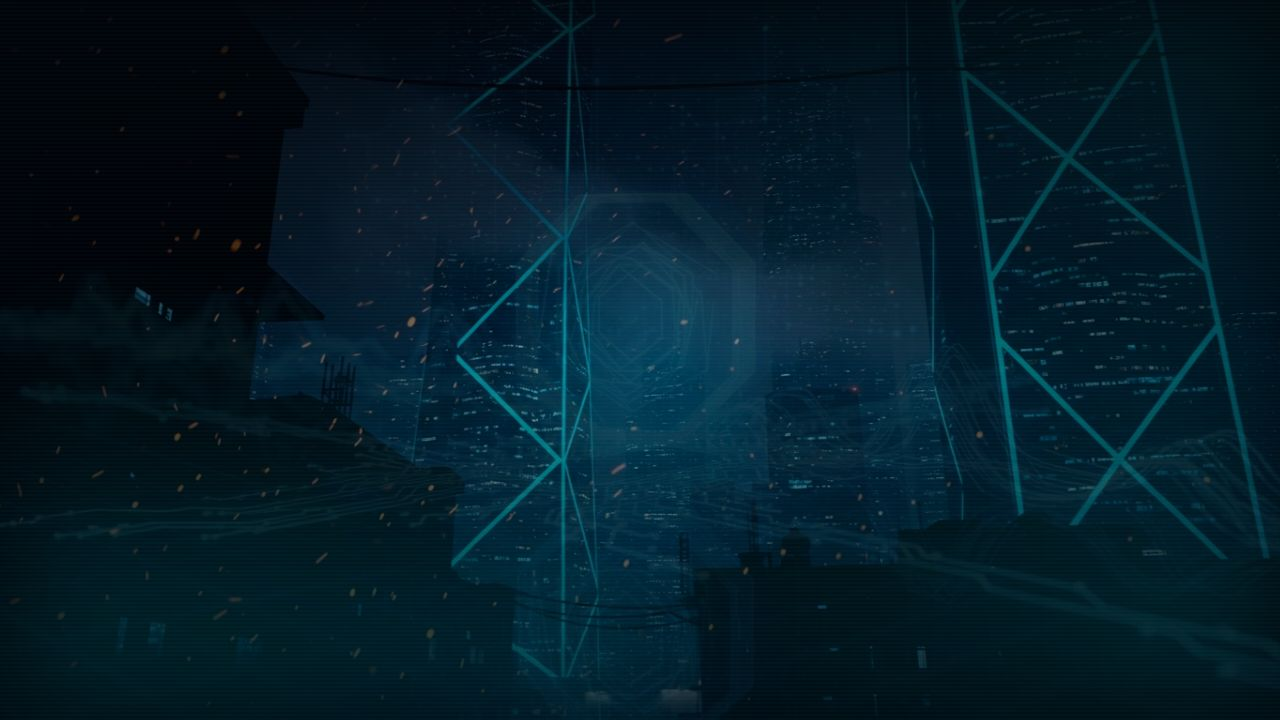
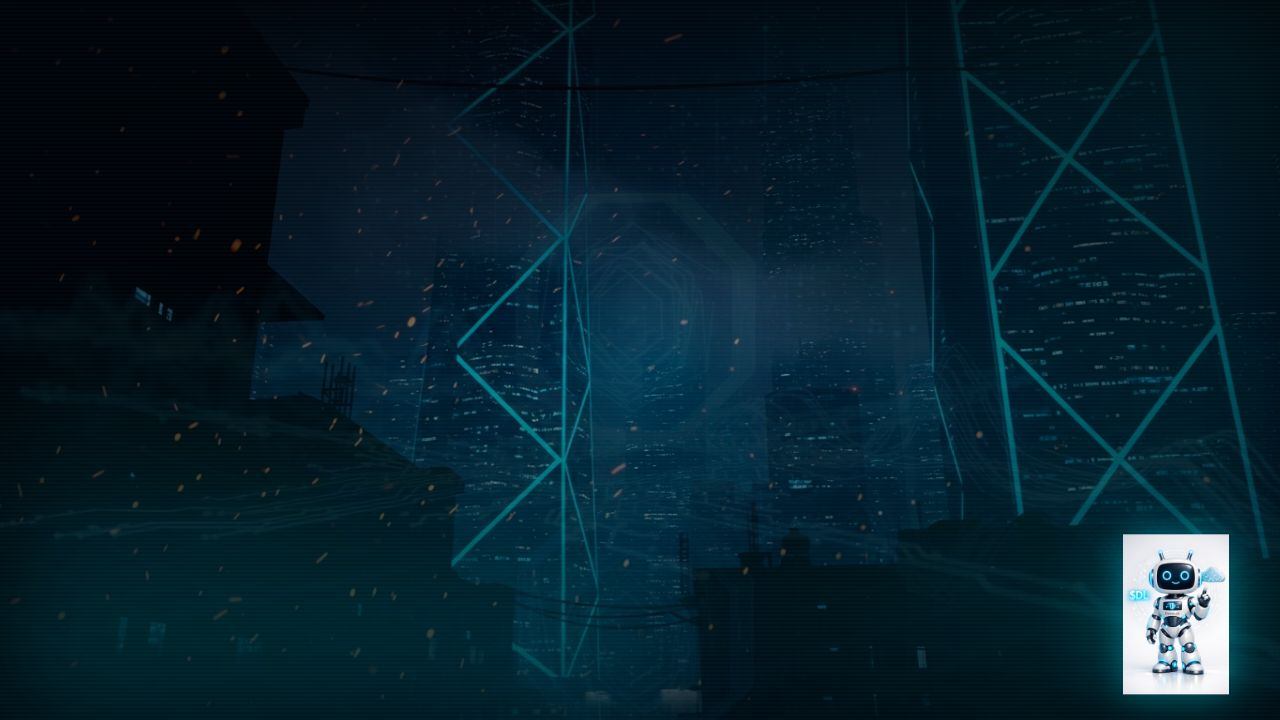
Add an informational section about DaveTech-Guardian to the landing page
Introduce a new `InfoSection` component to display details about DaveTech-Guardian, integrated into `App.tsx` below the hero banner and above the mascot.

Replit-Commit-Author: Agent
Replit-Commit-Session-Id: 41aaa22e-43df-4574-8f3e-19e1448321cb
Replit-Commit-Checkpoint-Type: full_checkpoint
Replit-Commit-Event-Id: 07513066-40e9-472d-91ea-8492b9859a56
Replit-Commit-Screenshot-Url: https://storage.googleapis.com/screenshot-production-us-central1/d0707880-54d9-42b3-8727-938a1e93a085/41aaa22e-43df-4574-8f3e-19e1448321cb/kSveqHW
Replit-Helium-Checkpoint-Created: true

Changed region(s): [[0.8438, 0.7028, 1.0, 1.0]]

diff --git a/client/src/components/InfoSection.tsx b/client/src/components/InfoSection.tsx
@@ -1,0 +1,77 @@
+import { motion } from 'framer-motion';
+
+export function InfoSection() {
+  return (
+    <section className="relative w-full py-24 px-6 md:px-12 lg:px-24 bg-[#0A0F1D] border-t border-[#00E5FF]/20 overflow-hidden font-mono">
+      {/* Background glow */}
+      <div className="absolute top-0 left-1/2 -translate-x-1/2 w-3/4 h-32 bg-[#00E5FF]/10 blur-[100px] pointer-events-none" />
+      
+      <div className="max-w-6xl mx-auto relative z-10 flex flex-col md:flex-row gap-16 items-center">
+        {/* Left side: Text Content */}
+        <div className="flex-1 space-y-8">
+          <motion.div
+            initial={{ opacity: 0, y: 20 }}
+            whileInView={{ opacity: 1, y: 0 }}
+            viewport={{ once: true, margin: "-100px" }}
+            transition={{ duration: 0.6, ease: "easeOut" }}
+          >
+            <h2 className="text-4xl md:text-5xl lg:text-6xl font-black text-white tracking-tighter" style={{ fontFamily: 'var(--font-display)' }}>
+              DaveTech-<br/><span className="text-[#00E5FF] text-glow">Guardian</span>
+            </h2>
+            <p className="text-xl md:text-2xl text-[#8BA4D8] mt-4 font-medium tracking-wide">
+              Empowering digital safety and innovation
+            </p>
+          </motion.div>
+          
+          <motion.p 
+            initial={{ opacity: 0, y: 20 }}
+            whileInView={{ opacity: 1, y: 0 }}
+            viewport={{ once: true, margin: "-100px" }}
+            transition={{ duration: 0.6, delay: 0.2, ease: "easeOut" }}
+            className="text-lg text-[#8BA4D8]/90 leading-relaxed"
+          >
+            DaveTech-Guardian is a forward-thinking initiative focused on protecting users online while fostering technological growth. It combines security awareness, cutting-edge tools, and community-driven support to ensure safer digital experiences.
+          </motion.p>
+        </div>
+
+        {/* Right side: Highlights Card */}
+        <div className="flex-1 w-full">
+          <motion.div 
+            initial={{ opacity: 0, scale: 0.95, x: 20 }}
+            whileInView={{ opacity: 1, scale: 1, x: 0 }}
+            viewport={{ once: true, margin: "-100px" }}
+            transition={{ duration: 0.6, delay: 0.4, ease: "easeOut" }}
+            className="bg-[#02040A]/60 border border-[#00E5FF]/20 rounded-3xl p-8 md:p-10 backdrop-blur-md shadow-[0_0_30px_rgba(0,229,255,0.1)] hover:shadow-[0_0_40px_rgba(0,229,255,0.2)] transition-shadow duration-500"
+          >
+            <h3 className="text-2xl font-bold text-white mb-8 tracking-tight" style={{ fontFamily: 'var(--font-display)' }}>
+              Key Highlights
+            </h3>
+            <ul className="space-y-6">
+              {[
+                "Cybersecurity awareness and education",
+                "Innovative tools for safe browsing",
+                "Community support and resources"
+              ].map((highlight, index) => (
+                <motion.li 
+                  key={index} 
+                  initial={{ opacity: 0, x: -10 }}
+                  whileInView={{ opacity: 1, x: 0 }}
+                  viewport={{ once: true }}
+                  transition={{ duration: 0.4, delay: 0.6 + (index * 0.1) }}
+                  className="flex items-start gap-4 text-[#8BA4D8]"
+                >
+                  <div className="mt-1 w-5 h-5 flex items-center justify-center rounded bg-[#00E5FF]/20 text-[#00E5FF] shrink-0">
+                    <svg width="12" height="12" viewBox="0 0 24 24" fill="none" stroke="currentColor" strokeWidth="3" strokeLinecap="round" strokeLinejoin="round">
+                      <polyline points="20 6 9 17 4 12"></polyline>
+                    </svg>
+                  </div>
+                  <span className="text-lg leading-snug">{highlight}</span>
+                </motion.li>
+              ))}
+            </ul>
+          </motion.div>
+        </div>
+      </div>
+    </section>
+  );
+}

diff --git a/client/src/App.tsx b/client/src/App.tsx
@@ -1,11 +1,18 @@
 import VideoTemplate from "@/components/video/VideoTemplate";
 import { DLMascot } from "@/components/DLMascot";
+import { InfoSection } from "@/components/InfoSection";
 
 export default function App() {
   return (
-    <>
+    <div className="bg-[#02040A] min-h-screen w-full flex flex-col overflow-x-hidden">
+      {/* Hero Banner Area (Video Animation) */}
       <VideoTemplate />
+      
+      {/* Informational Section */}
+      <InfoSection />
+
+      {/* Global Interactive Elements */}
       <DLMascot />
-    </>
+    </div>
   );
 }
